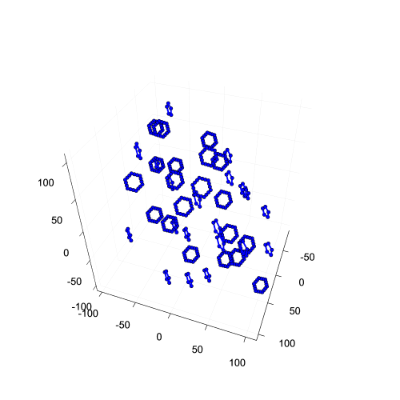
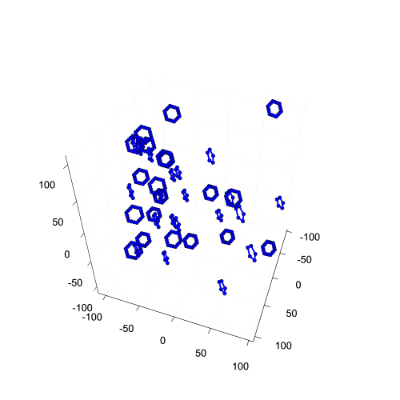
Updated readme and example.

diff --git a/README.md b/README.md
@@ -110,15 +110,18 @@ julia> prisPentagon = DislocationLoop(
           numLoops = 20,  # Number of loops of this type to generate when making a network.
           segLen = 10 * ones(5),  # Length of each segment between nodes, equal to the number of nodes.
           slipSystem = 1, # Slip System (assuming slip systems are stored in a file, this is the index).
-          _slipPlane = slipSystem.slipPlane,  # Slip plane of the segments.
-          _bVec = slipSystem.bVec,            # Burgers vector of the segments.
+          _slipPlane = slipSystems.slipPlane,  # Slip plane of the segments.
+          _bVec = slipSystems.bVec,            # Burgers vector of the segments.
           label = nodeType[1; 2; 1; 2; 1],    # Node labels, has to be equal to the number of nodes.
           buffer = 0.0,   # Buffer to increase the dislocation spread.
-          range = Float64[-100 -100 -100;   # Distribution range
-                           100  100  100],  # [xmin, ymin, zmin; xmax, ymax, zmax].
+          range = Float64[          # Distribution range
+                        -100 100; # xmin, xmax          
+                        -100 100; # ymin, ymax
+                        -100 100  # zmin, zmax
+                      ],
           dist = Rand(),  # Loop distribution.
       )
-DislocationLoop{loopPrism,Int64,Array{Float64,1},Int64,Array{Int64,2},Array{Float64,2},Array{nodeType,1},Float64,Rand}(loopPrism(), 5, 1, 20, [10.0, 10.0, 10.0, 10.0, 10.0], 1, [1 2; 2 3; … ; 4 5; 5 1], [0.5773502691896258 0.5773502691896258 0.5773502691896258; 0.5773502691896258 0.5773502691896258 0.5773502691896258; … ; 0.5773502691896258 0.5773502691896258 0.5773502691896258; 0.5773502691896258 0.5773502691896258 0.5773502691896258], [0.7071067811865475 -0.7071067811865475 0.0; 0.7071067811865475 -0.7071067811865475 0.0; … ; 0.7071067811865475 -0.7071067811865475 0.0; 0.7071067811865475 -0.7071067811865475 0.0], [-1.932030909139515 -1.932030909139515 -8.055755266097462; 4.820453044614565 4.820453044614565 -5.087941102678986; … ; -1.785143053581134 -1.785143053581134 8.123251093712414; -6.014513813778146 -6.014513813778146 0.10921054317980072], nodeType[DDD.intMob, DDD.intFix, DDD.intMob, DDD.intFix, DDD.intMob], 0.0, [-100.0 -100.0 -100.0; 100.0 100.0 100.0], Rand())
+DislocationLoop{loopPrism,Int64,Array{Float64,1},Int64,Array{Int64,2},Array{Float64,2},Array{nodeType,1},Float64,Rand}(loopPrism(), 5, 1, 20, [10.0, 10.0, 10.0, 10.0, 10.0], 1, [1 2 … 4 5; 2 3 … 5 1], [0.5773502691896258 0.5773502691896258 … 0.5773502691896258 0.5773502691896258; 0.5773502691896258 0.5773502691896258 … 0.5773502691896258 0.5773502691896258; 0.5773502691896258 0.5773502691896258 … 0.5773502691896258 0.5773502691896258], [0.7071067811865475 0.7071067811865475 … 0.7071067811865475 0.7071067811865475; -0.7071067811865475 -0.7071067811865475 … -0.7071067811865475 -0.7071067811865475; 0.0 0.0 … 0.0 0.0], [-1.932030909139515 4.820453044614565 … -1.785143053581134 -6.014513813778146; -1.932030909139515 4.820453044614565 … -1.785143053581134 -6.014513813778146; -8.055755266097462 -5.087941102678986 … 8.123251093712414 0.10921054317980072], nodeType[DDD.intMob, DDD.intFix, DDD.intMob, DDD.intFix, DDD.intMob], 0.0, [-100.0 100.0; -100.0 100.0; -100.0 100.0], Rand())
 
 julia> shearHexagon = DislocationLoop(
           loopShear();    # Shear loop
@@ -127,15 +130,19 @@ julia> shearHexagon = DislocationLoop(
           numLoops = 20,
           segLen = 10 * ones(3 * 6) / 3,  # The hexagon's side length is 10, each segment is 10/3.
           slipSystem = 1,
-          _slipPlane = slipSystem.slipPlane,
-          _bVec = slipSystem.bVec,
+          _slipPlane = slipSystems.slipPlane,
+          _bVec = slipSystems.bVec,
           label = nodeType[1; 2; 1; 2; 1; 2; 1; 2; 1; 2; 1; 2; 1; 2; 1; 2; 1; 2],
           buffer = 0.0,
-          range = Float64[-100 -100 -100;
-                           100  100  100],
+          range = Float64[
+                        -100 100;
+                        -100 100;
+                        -100 100
+                      ],
           dist = Rand(),
       )
-DislocationLoop{loopShear,Int64,Array{Float64,1},Int64,Array{Int64,2},Array{Float64,2},Array{nodeType,1},Float64,Rand}(loopShear(), 6, 3, 20, [3.3333333333333335, 3.3333333333333335, 3.3333333333333335, 3.3333333333333335, 3.3333333333333335, 3.3333333333333335, 3.3333333333333335, 3.3333333333333335, 3.3333333333333335, 3.3333333333333335, 3.3333333333333335, 3.3333333333333335, 3.3333333333333335, 3.3333333333333335, 3.3333333333333335, 3.3333333333333335, 3.3333333333333335, 3.3333333333333335], 1, [1 2; 2 3; … ; 17 18; 18 1], [0.5773502691896258 0.5773502691896258 0.5773502691896258; 0.5773502691896258 0.5773502691896258 0.5773502691896258; … ; 0.5773502691896258 0.5773502691896258 0.5773502691896258; 0.5773502691896258 0.5773502691896258 0.5773502691896258], [0.7071067811865475 -0.7071067811865475 0.0; 0.7071067811865475 -0.7071067811865475 0.0; … ; 0.7071067811865475 -0.7071067811865475 0.0; 0.7071067811865475 -0.7071067811865475 0.0], [5.4433105395181745 -6.804138174397717 1.3608276348795434; 6.804138174397718 -5.443310539518174 -1.3608276348795434; … ; 1.360827634879545 -6.804138174397715 5.443310539518167; 4.082482904638632 -8.164965809277255 4.0824829046386215], nodeType[DDD.intMob, DDD.intFix, DDD.intMob, DDD.intFix, DDD.intMob, DDD.intFix, DDD.intMob, DDD.intFix, DDD.intMob, DDD.intFix, DDD.intMob, DDD.intFix, DDD.intMob, DDD.intFix, DDD.intMob, DDD.intFix, DDD.intMob, DDD.intFix], 0.0, [-100.0 -100.0 -100.0; 100.0 100.0 100.0], Rand())
+DislocationLoop{loopShear,Int64,Array{Float64,1},Int64,Array{Int64,2},Array{Float64,2},Array{nodeType,1},Float64,Rand}(loopShear(), 6, 3, 20, [3.3333333333333335, 3.3333333333333335, 3.3333333333333335, 3.3333333333333335, 3.3333333333333335, 3.3333333333333335, 3.3333333333333335, 3.3333333333333335, 3.3333333333333335, 3.3333333333333335, 3.3333333333333335, 3.3333333333333335, 3.3333333333333335, 3.3333333333333335, 3.3333333333333335, 3.3333333333333335, 3.3333333333333335, 3.3333333333333335], 1, [1 2 … 17 18; 2 3 … 18 1], [0.5773502691896258 0.5773502691896258 … 0.5773502691896258 0.5773502691896258; 0.5773502691896258 0.5773502691896258 … 0.5773502691896258 0.5773502691896258; 0.5773502691896258 0.5773502691896258 … 0.5773502691896258 0.5773502691896258], [0.7071067811865475 0.7071067811865475 … 0.7071067811865475 0.7071067811865475; -0.7071067811865475 -0.7071067811865475 … -0.7071067811865475 -0.7071067811865475; 0.0 0.0 … 0.0 0.0], [5.443310539518175 6.8041381743977185 … 1.3608276348795458 4.082482904638633; -6.804138174397717 -5.443310539518174 … -6.804138174397715 -8.164965809277255; 1.3608276348795436 -1.3608276348795432
+… 5.443310539518167 4.082482904638622], nodeType[DDD.intMob, DDD.intFix, DDD.intMob, DDD.intFix, DDD.intMob, DDD.intFix, DDD.intMob, DDD.intFix, DDD.intMob, DDD.intFix, DDD.intMob, DDD.intFix, DDD.intMob, DDD.intFix, DDD.intMob, DDD.intFix, DDD.intMob, DDD.intFix], 0.0, [-100.0 100.0; -100.0 100.0; -100.0 100.0], Rand())
 ```
 The dislocation loops will be centred about the origin, but the `range`, `buffer` and `dist` parameters will distribute the dislocations about the simulation domain once the dislocation network is generated. The type of `dist` must be a concrete subtype of `AbstractDistribution` and `loopDistribution()` method should dispatch on this concrete subtype. If a non-suported distribution is required, you only need to create a concrete subtype of `AbstractDistribution` and a new method of `loopDistribution()` to dispatch on the new type. This is all the reworking needed, since multiple dispatch will take care of any new distributions when generating the dislocation network.
 
@@ -167,17 +174,24 @@ julia> network = DislocationNetwork(
           [shearHexagon, prisPentagon]; # Dispatch type, bespoke functions dispatch on this.
           memBuffer = 1 # Buffer for memory allocation.
        )
-DislocationNetwork{Array{Int64,2},Array{Float64,2},Array{nodeType,1},Int64,Array{Int64,2}}([1 2; 2 3; … ; 459 460; 460 456], [0.5773502691896258 0.5773502691896258 0.5773502691896258; 0.5773502691896258 0.5773502691896258 0.5773502691896258; … ; 0.5773502691896258 0.5773502691896258 0.5773502691896258; 0.5773502691896258 0.5773502691896258 0.5773502691896258], [0.7071067811865475 -0.7071067811865475 0.0; 0.7071067811865475 -0.7071067811865475 0.0; … ; 0.7071067811865475 -0.7071067811865475 0.0; 0.7071067811865475 -0.7071067811865475 0.0], [41.91082711407302 54.62017549955427 30.676858569059906; 43.27165474895257 55.98100313443381 27.955203299300816; … ; -28.839667409599297 -72.8714555754737 -31.14471190957846; -33.06903816979631 -77.10082633567072 -39.158752460111074], nodeType[DDD.intMob, DDD.intFix, DDD.intMob, DDD.intFix, DDD.intMob, DDD.intFix, DDD.intMob, DDD.intFix, DDD.intMob, DDD.intFix  …  DDD.intMob, DDD.intFix, DDD.intMob, DDD.intFix, DDD.intMob, DDD.intMob, DDD.intFix, DDD.intMob, DDD.intFix, DDD.intMob], [0.0 0.0 0.0; 0.0 0.0 0.0; … ; 0.0 0.0 0.0; 0.0 0.0 0.0], [0.0 0.0 0.0; 0.0 0.0 0.0; … ; 0.0 0.0 0.0; 0.0 0.0 0.0], 460, 460, 4, [2 1 … 0 0; 2 1 … 0 0; … ; 2 458 … 0 0; 2 459 … 0 0], [1 1; 2 1; … ; 2 1; 2 2], [1 1 2; 2 2 3; … ; 459 459 460; 460 460 456])
+ DislocationNetwork{Array{Int64,2},Array{Float64,2},Array{nodeType,1},Int64,Array{Int64,2},Array{Float64,3}}([1 2 … 459 460; 2 3 … 460 456], [0.5773502691896258 0.5773502691896258 … 0.5773502691896258 0.5773502691896258; 0.5773502691896258 0.5773502691896258 … 0.5773502691896258 0.5773502691896258; 0.5773502691896258 0.5773502691896258 … 0.5773502691896258 0.5773502691896258], [0.7071067811865475 0.7071067811865475 … 0.7071067811865475 0.7071067811865475; -0.7071067811865475 -0.7071067811865475 … -0.7071067811865475 -0.7071067811865475; 0.0 0.0 … 0.0 0.0], [46.39761283211718 47.75844046699673 … -57.496002894414175 -61.72537365461118; -49.937613036904054 -48.57678540202451 … -59.28380906452193 -63.51317982471895; 41.67317243370178 38.9515171639427 … -2.1285556467706765 -10.14259619730329], nodeType[DDD.intMob, DDD.intFix, DDD.intMob, DDD.intFix, DDD.intMob, DDD.intFix, DDD.intMob, DDD.intFix, DDD.intMob, DDD.intFix  …  DDD.intMob, DDD.intFix, DDD.intMob, DDD.intFix, DDD.intMob, DDD.intMob, DDD.intFix, DDD.intMob, DDD.intFix, DDD.intMob], [0.0 0.0 … 0.0 0.0; 0.0 0.0 … 0.0 0.0; 0.0 0.0 … 0.0 0.0], 460, 460, 4, [2 2 … 2 2; 1 1 … 458 459; … ; 0 0 … 0 0; 0 0 … 0 0], [1 2 … 2 2; 1 1 … 1 2], [1 1 2; 2 2 3; … ; 459 459 460; 460 460 456],
+ [0.0 0.0; 0.0 0.0; 0.0 0.0]
+ [0.0 0.0; 0.0 0.0; 0.0 0.0]
+ [0.0 0.0; 0.0 0.0; 0.0 0.0]
+ ...
+ [0.0 0.0; 0.0 0.0; 0.0 0.0]
+ [0.0 0.0; 0.0 0.0; 0.0 0.0]
+ [0.0 0.0; 0.0 0.0; 0.0 0.0])
 ```
 This method automatically takes the previously defined loops and scatters them according to the parameters provided in the `DislocationLoop` structure. Furthermore, the `memBuffer` defaults to 10. The number of entries allocated for the matrices is the total number of nodes in the network times `memBuffer`. Here we allocate enough memory for all the nodes but no more. Since julia is dynamic we can allocate memory when needed. However for performance reasons it is advisable to minimise memory management as much as possible.
 
 This function will also automatically calculate other quantities to keep track of the network's links, nodes and segments.
 ```julia
 julia> fieldnames(typeof(network))
-(:links, :slipPlane, :bVec, :coord, :label, :segForce, :nodeVel, :numNode, :numSeg, :maxConnect, :connectivity, :linksConnect, :segIdx)
+(:links, :slipPlane, :bVec, :coord, :label, :nodeVel, :numNode, :numSeg, :maxConnect, :connectivity, :linksConnect, :segIdx, :segForce)
 ```
 
-We can view our network with special plotting functions, here we use `plotlyjs()` because it provides a nice interactive viewing environment.
+We can also view our network with `plotNodes`.
 ```julia
 julia> fig2 = plotNodes(
           network,
@@ -215,7 +229,7 @@ This is a sample `JSON` file for a dislocation loop. They can be compactified by
     "slipSystem": 1,
     "label": [2, 1, 2, 1, 2, 1, 2, 1],
     "buffer": 0,
-    "range": [[0, 0], [0, 0], [0, 0]],
+    "range": [[0, 0, 0], [0, 0, 0]],
     "dist": "DDD.Zeros()"
   }
 ]
